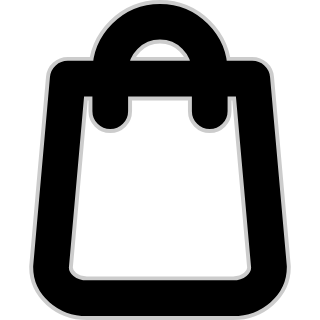
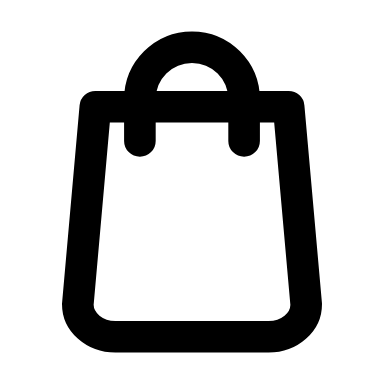
mais ações

diff --git a/scripts/books.js b/scripts/books.js
@@ -50,6 +50,19 @@ function updateTableBooks() {
       <td data-label="Disponível"><div class="${
         book.rent ? "sim" : "nao"
       }"></div></td>
+      <td data-label="Ações">
+        <div class="actions">
+          <div class="button-rent" onclick="editBook(${book.id})">
+            <img src="../../imgs/pencil.svg">
+          </div>
+          <div class="button-rent" onclick="deleteBook(${book.id})">
+            <img src="../../imgs/trash.svg">
+          </div>  
+          <div class="button-rent" onclick="rentBook(${book.id})">
+            <img src="../../imgs/bag.svg">
+          </div>
+        </div
+      </td>
     `;
 
     tableBody.appendChild(row);
@@ -74,4 +87,16 @@ function cleanBookDialog() {
   document.getElementById("input_url").value = "";
   document.getElementById("input_sinopse").value = "";
   document.getElementById("input_theme").value = "";
+}
+
+function rentBook(id) {
+  console.log("Alugando o livro: " + id);
+}
+
+function editBook(id) {
+  console.log("Editando o livro: " + id);
+}
+
+function deleteBook(id) {
+  console.log("Deletando o livro: " + id);
 }

diff --git a/scripts/users.js b/scripts/users.js
@@ -47,6 +47,19 @@ function updateTable() {
       <td data-label="Ativo"><div class="${
         user.active ? "sim" : "nao"
       }"></div></td>
+      <td data-label="Ações">
+      <div class="actions">
+        <div class="button-rent" onclick="editUser(${user.id})">
+          <img src="../../imgs/pencil.svg">
+        </div>
+        <div class="button-rent" onclick="deleteUser(${user.id})">
+          <img src="../../imgs/trash.svg">
+        </div>  
+        <div class="button-rent" onclick="rentBook(${user.id})">
+          <img src="../../imgs/bag.svg">
+        </div>
+      </div
+      </td>
     `;
 
     tableBody.appendChild(row);
@@ -70,4 +83,16 @@ function cleanUserDialog() {
   document.getElementById("input_email").value = "";
   document.getElementById("input_cpf").value = "";
   document.getElementById("input_phone").value = "";
+}
+
+function rentBook(id) {
+  console.log("Alugando livro para  o usuario: " + id);
+}
+
+function editUser(id) {
+  console.log("Editando o usuario: " + id);
+}
+
+function deleteUser(id) {
+  console.log("Deletando o usuario: " + id);
 }

diff --git a/css/index.css b/css/index.css
@@ -72,8 +72,8 @@ button:hover {
 
 .sim {
   border-radius: 50%;
-  height: 12px;
-  width: 12px;
+  height: 20px;
+  width: 20px;
   display: flex;
   margin: auto;
   background-color: green;
@@ -82,10 +82,33 @@ button:hover {
 
 .nao {
   border-radius: 50%;
-  height: 12px;
-  width: 12px;
+  height: 20px;
+  width: 20px;
   display: flex;
   margin: auto;
   background-color: red;
   border: 1px solid black;
+}
+
+.actions {
+  display: flex;
+  flex-direction: row;
+  justify-content: space-between;
+  align-items: center;
+}
+
+.button-rent {
+  border-radius: 50%;
+  height: 50px;
+  width: 50px;
+  display: flex;
+  margin: auto;
+  justify-content: center;
+  align-items: center;
+  background-color: var(--button-background-color);
+  cursor: pointer;
+}
+
+.button-rent img {
+  height: 30px;
 }

diff --git a/css/header.css b/css/header.css
@@ -27,7 +27,7 @@ header {
 }
 
 .logout {
-  height: 3rem;
+  height: 2.3rem;
   cursor: pointer;
   display: flex;
   position: absolute;

diff --git a/html/components/header.php b/html/components/header.php
@@ -11,7 +11,7 @@
     <div class="header-container">
         <img src="../../imgs/logo.svg" alt="Book" class="logo">
         <img src="../../imgs/logout.png" class="logout" onclick="logout()">
-        <img src="../../imgs/bag.png" class="bag" onclick="logout()">
+        <img src="../../imgs/bag.svg" class="bag" onclick="logout()">
 
         <nav class="nav-container">
             <ul class="nav-list">

diff --git a/html/screens/books.php b/html/screens/books.php
@@ -21,6 +21,7 @@
           <th>Sinopse</th>
           <th>Tema</th>
           <th>Disponível</th>
+          <th>Ações</th>
         </tr>
       </thead>
       <tbody id="table_books">

diff --git a/html/screens/users.php b/html/screens/users.php
@@ -21,6 +21,7 @@
           <th>CPF</th>
           <th>Telefone</th>
           <th>Ativo</th>
+          <th>Ações</th>
         </tr>
       </thead>
       <tbody id="table_users">
